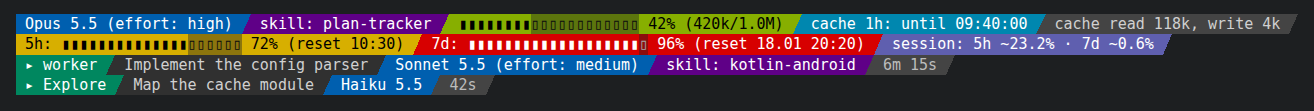
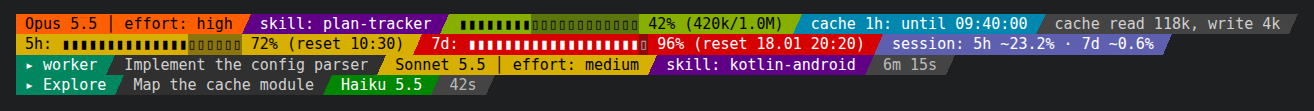
Model and effort coloured from cheap to dear (1.3.1)
- Model by input price: Haiku green, Sonnet yellow, Opus orange, Fable red
- Effort by level: low green, medium yellow, high orange, xhigh red, max maroon
- Filled themes give the effort a block of its own next to the model
- Fill colours off keeps the fixed cyan and magenta

Changed region(s): [[0.2496, 0.4865, 0.4992, 0.8649], [0.0, 0.1081, 0.1872, 0.3243]]

diff --git a/claude_statusline/render.py b/claude_statusline/render.py
@@ -11,7 +11,7 @@ from . import themes
 from .cache import cache_status, last_cache_io
 from .config import SECOND_ROW_FIELDS, Config
 from .samples import Samples, write_effort
-from .pricing import display_model
+from .pricing import display_model, known_input_price
 from .agents import Agent, running_agents
 from .transcript import last_skill
 from .usage import load_index, share_numbers
@@ -31,6 +31,7 @@ STYLES = {
     "warn": "33",          # yellow
     "high": "38;5;208",    # orange
     "bad": "31",           # red
+    "maroon": "38;5;88",   # maroon: max effort
     "ok": "32",            # green
     "dim": "2",
     "label": "1",          # bold
@@ -45,6 +46,10 @@ STYLES = {
 
 # Fill levels: (lowest percent, style), from the top down.
 FILL_LEVELS = ((90, "bad"), (75, "high"), (50, "warn"), (25, "fair"), (0, "ok"))
+
+# Model by input price per million tokens, effort by level: the same five colours, cheap to dear.
+MODEL_LEVELS = ((8.0, "bad"), (3.5, "high"), (1.5, "warn"), (0.5, "fair"), (0.0, "ok"))
+EFFORT_LEVELS = {"low": "ok", "medium": "warn", "high": "high", "xhigh": "bad", "max": "maroon"}
 
 BAR_WIDTH = 20
 LIMITS = {"5h": ("five_hour", 5), "7d": ("seven_day", 168)}  # field -> (payload key, hours)
@@ -79,6 +84,23 @@ def usage_tone(config: Config, name: str, pct: float) -> str:
     """Theme tone of a filling field: its level, or with level colours off a colour of its own,
     so neighbouring blocks stay apart."""
     return level(pct) if config.level_colors else f"usage_{name}"
+
+
+def model_style(model_id: Optional[str], graded: bool) -> str:
+    """The colour of a model: by its price with graded colours on, else the fixed model colour."""
+    price = known_input_price(model_id or "") if graded else None
+    if price is None:
+        return "model"
+    return next(style for lowest, style in MODEL_LEVELS if price >= lowest)
+
+
+def effort_style(effort: Optional[str], graded: bool) -> str:
+    return EFFORT_LEVELS.get((effort or "").lower(), "effort") if graded else "effort"
+
+
+def bold(text: str, style: str, enabled: bool) -> str:
+    code = STYLES[style]
+    return paint(text, style, enabled) if code.startswith("1;") or not enabled else f"\033[1;{code}m{text}{RESET}"
 
 
 def fmt_tokens(n: float) -> str:
@@ -150,6 +172,7 @@ class Frame:
     sources: Sources
     transcript: Optional[str]
     on: bool
+    filled: bool = False  # a filled theme: effort gets a block of its own, next to the model
     _cache: Any = field(default=False, repr=False)  # False: not read yet
 
     def cache(self) -> Optional[Tuple[str, float]]:
@@ -159,28 +182,35 @@ class Frame:
         return self._cache
 
 
+def _model_id(f: Frame) -> str:
+    """The model id, or one made from its display name (Opus 5.5 -> opus-5-5) for the price."""
+    model = f.payload.get("model") or {}
+    return model.get("id") or (model.get("display_name") or "").lower().replace(" ", "-").replace(".", "-")
+
+
+def _effort_level(f: Frame) -> Optional[str]:
+    return (f.payload.get("effort") or {}).get("level")
+
+
 def _model(f: Frame) -> str:
     model = f.payload.get("model") or {}
     name = model.get("display_name") or model.get("id") or "?"
-    text = paint(name, "model", f.on)
-    if "effort" in f.config.fields:
-        effort = _effort_text(f)
-        if effort:
-            text += " " + paint(f"({effort})", "effort", f.on)
+    text = bold(name, model_style(_model_id(f), f.config.level_colors), f.on)
+    effort = _effort_level(f)
+    if "effort" in f.config.fields and effort and not f.filled:
+        text += " " + paint(f"(effort: {effort})", effort_style(effort, f.config.level_colors), f.on)
     return text
 
 
-def _effort_text(f: Frame) -> Optional[str]:
-    level_name = (f.payload.get("effort") or {}).get("level")
-    return f"effort: {level_name}" if level_name else None
-
-
 def _effort(f: Frame) -> Optional[str]:
-    """Effort sits next to the model; on its own only when the model field is off."""
-    if "model" in f.config.fields:
+    """Effort sits next to the model; on its own when the model field is off, and in a block of
+    its own on the filled themes, so each has its colour."""
+    if "model" in f.config.fields and not f.filled:
         return None
-    text = _effort_text(f)
-    return paint(text, "effort", f.on) if text else None
+    effort = _effort_level(f)
+    if not effort:
+        return None
+    return paint(f"effort: {effort}", effort_style(effort, f.config.level_colors), f.on)
 
 
 def _skill(f: Frame) -> Optional[str]:
@@ -337,13 +367,14 @@ def cache_short(status: Tuple[str, float], now: float, on: bool) -> str:
     return head + paint(f"until {clock}", f"tier_{tier}", on)
 
 
-def model_text(model_id: Optional[str], effort: Optional[str], on: bool) -> Optional[str]:
+def model_text(model_id: Optional[str], effort: Optional[str], on: bool,
+               graded: bool = True) -> Optional[str]:
     """Model name and, when known, its effort, painted as in the main status line."""
     if not model_id:
         return None
-    text = paint(display_model(model_id), "model", on)
+    text = bold(display_model(model_id), model_style(model_id, graded), on)
     if effort:
-        text += " " + paint(f"(effort: {effort})", "effort", on)
+        text += " " + paint(f"(effort: {effort})", effort_style(effort, graded), on)
     return text
 
 
@@ -377,6 +408,10 @@ def tone(name: str, f: Frame) -> str:
         if status is None:
             return "none"
         return "expired" if status[1] <= f.now else f"tier_{status[0]}"
+    if name == "model":
+        return model_style(_model_id(f), f.config.level_colors)
+    if name == "effort":
+        return effort_style(_effort_level(f), f.config.level_colors)
     return name
 
 
@@ -388,7 +423,7 @@ def build(payload: Dict[str, Any], now: float, config: Config, sources: Sources)
     sources.observe_limits(payload, now)
     # Filled themes draw the text plainly: the segment's background carries its colour.
     filled = on and themes.THEMES.get(config.theme, themes.THEMES["plain"]).filled
-    frame = Frame(payload, now, config, sources, transcript, on and not filled)
+    frame = Frame(payload, now, config, sources, transcript, on and not filled, filled)
     rows: List[List[Tuple[str, str]]] = [[], []]
     for name in config.fields:
         if name == "agents":
@@ -415,9 +450,13 @@ def _agent_row(agent: Agent, f: Frame) -> List[Tuple[str, str]]:
     row = [(paint(f"\u25b8 {agent.name}", "agent", f.on), "agent")]
     if label and f.config.level != "minimal":
         row.append((label, "agent_task"))
-    model = model_text(agent.model_id, agent.effort, f.on)
+    graded = f.config.level_colors
+    model = model_text(agent.model_id, None if f.filled else agent.effort, f.on, graded)
     if model:
-        row.append((model, "model"))
+        row.append((model, model_style(agent.model_id, graded)))
+    if agent.effort and (f.filled or not model):
+        row.append((paint(f"effort: {agent.effort}", effort_style(agent.effort, graded), f.on),
+                    effort_style(agent.effort, graded)))
     if agent.skill:
         row.append(("skill: " + paint(agent.skill, "skill", f.on), "skill"))
     if agent.started:

diff --git a/tests/test_cli.py b/tests/test_cli.py
@@ -99,6 +99,38 @@ def test_colours_follow_levels_and_no_color(tmp_path, monkeypatch):
     assert "\033[" not in _render(tmp_path, _payload(pct=90))
 
 
+def test_model_and_effort_coloured_from_cheap_to_dear(tmp_path, monkeypatch):
+    monkeypatch.delenv("NO_COLOR", raising=False)
+
+    def line(model_id, effort):
+        return _render(tmp_path, {"model": {"id": model_id, "display_name": "M"},
+                                  "effort": {"level": effort}})
+
+    assert "\033[1;32mM" in line("claude-haiku-5-5", "low")        # cheap: green
+    assert "\033[32m(effort: low)" in line("claude-haiku-5-5", "low")
+    assert "\033[1;38;5;208mM" in line("claude-opus-5-5", "xhigh")  # dear: orange
+    assert "\033[31m(effort: xhigh)" in line("claude-opus-5-5", "xhigh")
+    assert "\033[1;31mM" in line("claude-fable-5-2", "max")         # dearest: red
+    assert "\033[38;5;88m(effort: max)" in line("claude-fable-5-2", "max")
+
+
+def test_model_colour_fixed_without_fill_colours(tmp_path, monkeypatch):
+    monkeypatch.delenv("NO_COLOR", raising=False)
+    payload = {"model": {"id": "claude-fable-5-2", "display_name": "M"}, "effort": {"level": "max"}}
+    line = render(payload, now=NOW, projects_dir=tmp_path / "p", cache_dir=tmp_path / "c",
+                  config=Config(level_colors=False))
+    assert "\033[1;36mM" in line and "\033[1;95m(effort: max)" in line
+
+
+def test_filled_theme_gives_effort_a_block_of_its_own(tmp_path, monkeypatch):
+    monkeypatch.delenv("NO_COLOR", raising=False)
+    payload = {"model": {"id": "claude-haiku-5-5", "display_name": "M"}, "effort": {"level": "max"}}
+    line = render(payload, now=NOW, projects_dir=tmp_path / "p", cache_dir=tmp_path / "c",
+                  config=Config(theme="slant"))
+    assert "\033[48;5;28;38;5;231m M " in line              # model block: green (cheap)
+    assert "\033[48;5;88;38;5;231m effort: max " in line   # effort block: maroon (max)
+
+
 def test_stdin_garbage_does_not_crash(monkeypatch, capsys):
     monkeypatch.setattr("sys.stdin", __import__("io").StringIO("{broken"))
     cli.main([])

diff --git a/claude_statusline/pricing.py b/claude_statusline/pricing.py
@@ -5,7 +5,7 @@ formula behind subscription limits, so these ratios are a proxy, not an exact co
 The table and weights match claude-token-report.
 """
 import re
-from typing import List, Mapping, Tuple
+from typing import List, Mapping, Tuple, Optional
 
 W_WRITE_5M = 1.25
 W_WRITE_1H = 2.0
@@ -54,6 +54,15 @@ def price_for(model: str, prompt_tokens: float = 0) -> Tuple[float, float, float
         if pattern in name:
             return price_in, price_out, price_cache_read
     return FALLBACK_PRICE
+
+
+def known_input_price(model: str) -> Optional[float]:
+    """Input price of a model in the table, None for models it does not know."""
+    name = (model or "").lower()
+    for pattern, price_in, _, _ in PRICES:
+        if pattern in name:
+            return price_in
+    return None
 
 
 def weighted(usage: Mapping, model: str) -> float:

diff --git a/claude_statusline/configure.py b/claude_statusline/configure.py
@@ -70,7 +70,8 @@ def fill_value(on: bool) -> str:
         text = f"■ {lowest}–{upper}%"
         legend.append(f"\033[{STYLES[style]}m{text}{RESET}" if on else f"{DIM}{text}{RESET}")
     if on:
-        return f"{ON}● on{RESET}   " + "  ".join(legend)
+        return (f"{ON}● on{RESET}   " + "  ".join(legend)
+                + f"   {DIM}(model by price, effort by level too){RESET}")
     return (f"{DIM}○ off{RESET}   " + "  ".join(legend)
             + f"   {DIM}(off: every field its own colour){RESET}")
 

diff --git a/claude_statusline/themes.py b/claude_statusline/themes.py
@@ -64,6 +64,7 @@ PALETTE: Dict[str, Tuple[int, int, int]] = {
     "warn": (178, 16, 220),
     "high": (202, 16, 208),
     "bad": (160, 231, 196),
+    "maroon": (88, 231, 124),
     "tier_1h": (31, 231, 38),
     "tier_5m": (133, 231, 170),
     "expired": (240, 252, 244),

diff --git a/claude_statusline/__init__.py b/claude_statusline/__init__.py
@@ -1,3 +1,3 @@
 """Claude Code status line."""
 
-__version__ = "1.3.0"
+__version__ = "1.3.1"

diff --git a/README.md b/README.md
@@ -29,10 +29,13 @@ Haiku 5.5 | [##------------------] 12% (118k/1.0M) | cache 1h: until 16:30:26 | 
 
 It uses 0 tokens: it only reads local data and never calls the model.
 
-Colours: model bold cyan, effort bold bright magenta, skill lilac; context and limit percentages by how full
-they are: green below 25%, yellow-green below 50%, yellow below 75%, orange below 90%, red above
-(fill colours, on by default; off: `config --level-colors off` or key `f`, and each of context,
-`5h`, `7d` gets a fixed colour of its own); cache tier blue for `1h`, magenta for `5m`; session share italic cyan; the rest dim.
+Colours: context and limit percentages by how full
+they are: green below 25%, yellow-green below 50%, yellow below 75%, orange below 90%, red above;
+the model and its effort on the same scale, from cheap to dear: model by input price (Haiku green,
+Sonnet yellow, Opus orange, Fable red), effort by level (`low` green, `medium` yellow,
+`high` orange, `xhigh` red, `max` maroon) (fill colours, on by default; off: `config --level-colors off`
+or key `f`: model bold cyan, effort bold bright magenta, and each of context, `5h`, `7d` gets a
+fixed colour of its own); skill lilac; cache tier blue for `1h`, magenta for `5m`; session share italic cyan; the rest dim.
 Set `NO_COLOR=1` to turn colours off.
 
 ## Configure
@@ -59,7 +62,7 @@ always pipes its JSON in, so the status line itself is unaffected).
 | `l` | next detail level |
 | `s` / `S` | next separator preset / type your own |
 | `c` | colours on / off |
-| `f` | fill colours (green / yellow / red by how full) on / off |
+| `f` | fill colours (green / yellow / red by how full, model by price, effort by level) on / off |
 | `a` (or `space` on its on/off row) | [agent panel](#agent-panel) on / off; its fields show only while it is on |
 | `r` | reset to defaults |
 | `enter` | save and exit |
@@ -118,7 +121,7 @@ a sample of each):
 | `boxes` | coloured frame `╭─╮ │ │ ╰─╯` around each field: three rows |
 
 Filled themes colour the block by state: context and limits at the same five fill levels as the
-text (with fill colours off each in its own colour, so neighbouring blocks never merge; two
+text, model and effort in blocks of their own by price and level (with fill colours off each in its own colour, so neighbouring blocks never merge; two
 neighbours of the same colour get a thin `│` between them), cache blue (`1h`), magenta (`5m`) or grey (expired). The shapes are
 standard Unicode characters, so no Nerd Font is needed.
 Context and the `5h` / `7d` limits fill up towards a limit, so each can show a progress bar

diff --git a/CHANGELOG.md b/CHANGELOG.md
@@ -1,5 +1,9 @@
 # Changelog
 
+## 1.3.1
+- Model and effort coloured from cheap to dear on the five fill colours: the model by its input price (Haiku green, Sonnet yellow, Opus orange, Fable red), the effort by level (`low` green, `medium` yellow, `high` orange, `xhigh` red, `max` maroon); in the agent rows too. Fill colours off (`config --level-colors off`, key `f`) keeps the fixed cyan and magenta.
+- Filled themes (`slant`, `blocks`, `fade`) draw the effort in a block of its own next to the model, so each shows its colour.
+
 ## 1.3.0
 - New installs get the `slant` theme, two rows, progress bars on context, `5h` and `7d`, and the `cacheio` field; settings saved by 1.2.0 keep their theme and fields, and take the new rows and bars defaults.
 - README: screenshots of the status line and the configurator.
